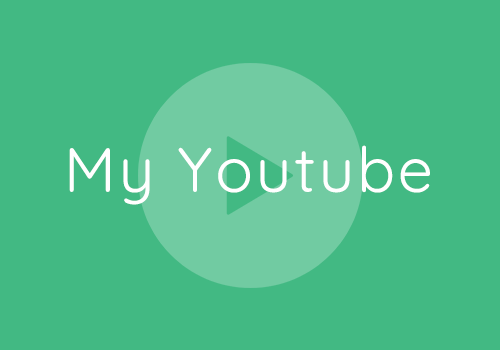
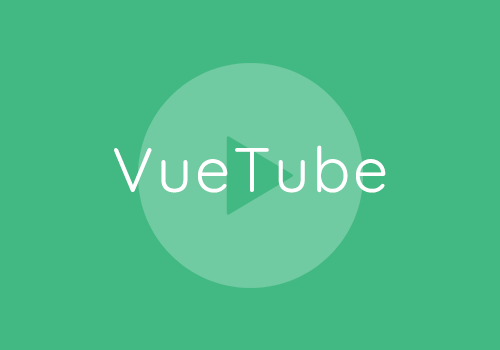
my youtube → vuetubeに

Changed region(s): [[0.12, 0.4, 0.87, 0.6]]

diff --git a/index.php b/index.php
@@ -173,16 +173,16 @@ $Page = 'top';
                 </a>
               </li>
               <li class="l-grid_item l-grid_item-6 l-grid_item-12-sp">
-                <a href="https://my-youtube.yoshikieee.com/" target="_blank">
+                <a href="https://vuetube.yoshikieee.com/" target="_blank">
                   <article class="worksCont menuAnim">
                     <div class="worksCont_inner">
                       <div class="worksCont_img">
-                        <img src="./images/works.png" alt="My Youtube">
+                        <img src="./images/works.png" alt="VueTube">
                       </div>
                       <div class="worksCont_body menuAnim_body">
-                        <h4 class="worksCont_ttl">My Youtube</h4>
+                        <h4 class="worksCont_ttl">VueTube</h4>
                         <p class="worksCont_txt">
-                          自分専用Youtubeサイト。Vue CLIで作成しました。<br>イイネ機能とコメント機能があります。ここなら誹謗中傷コメントも自由です。
+                          自分専用Youtubeサイト。Vue CLIとFirebaseで作成しました。<br>イイネ機能とコメント機能があります。ここなら誹謗中傷コメントも自由です。
                         </p>
                       </div>
                     </div>
